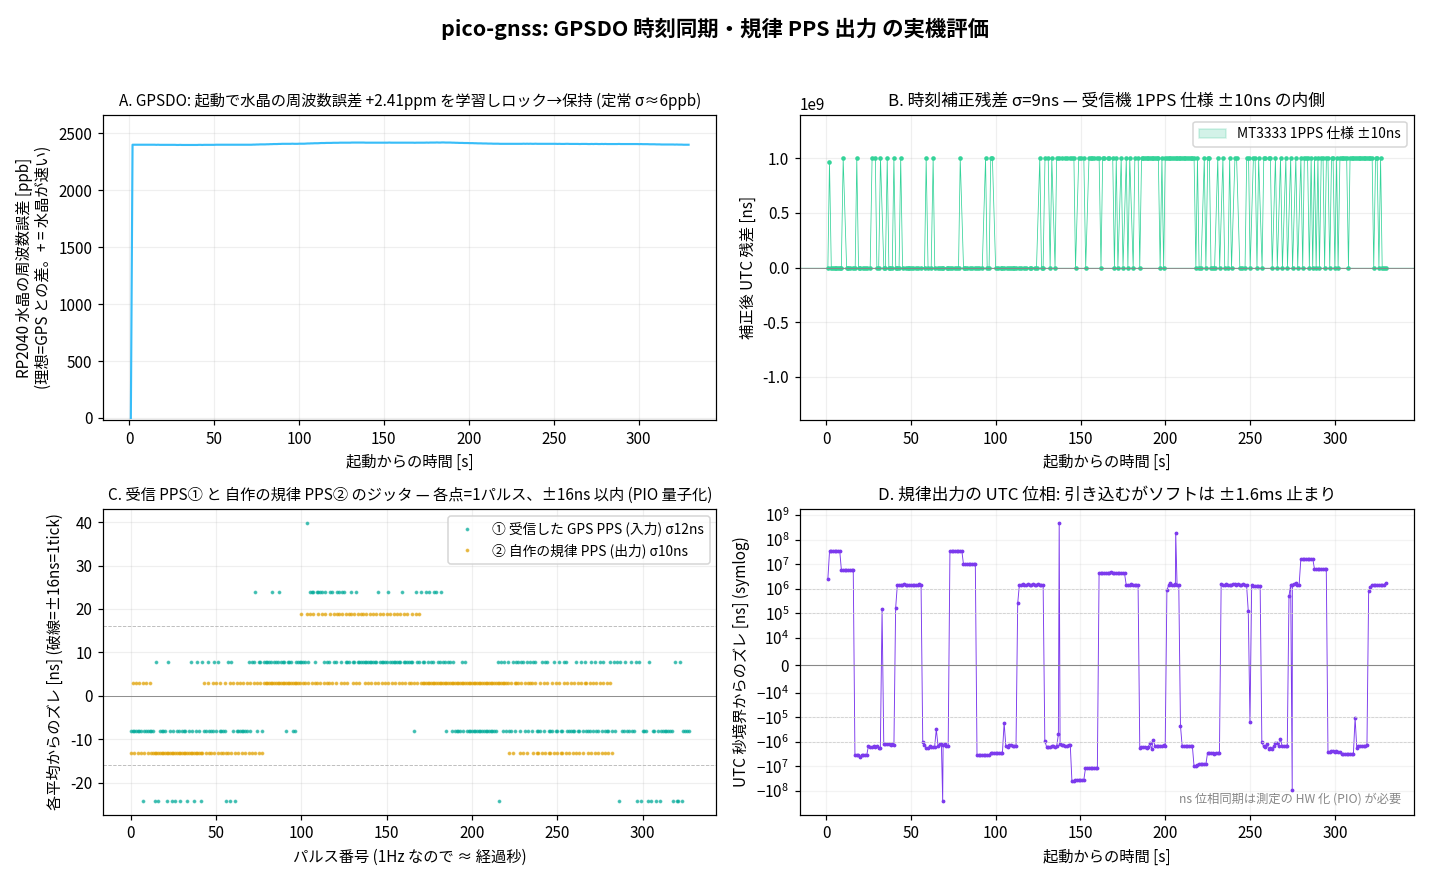
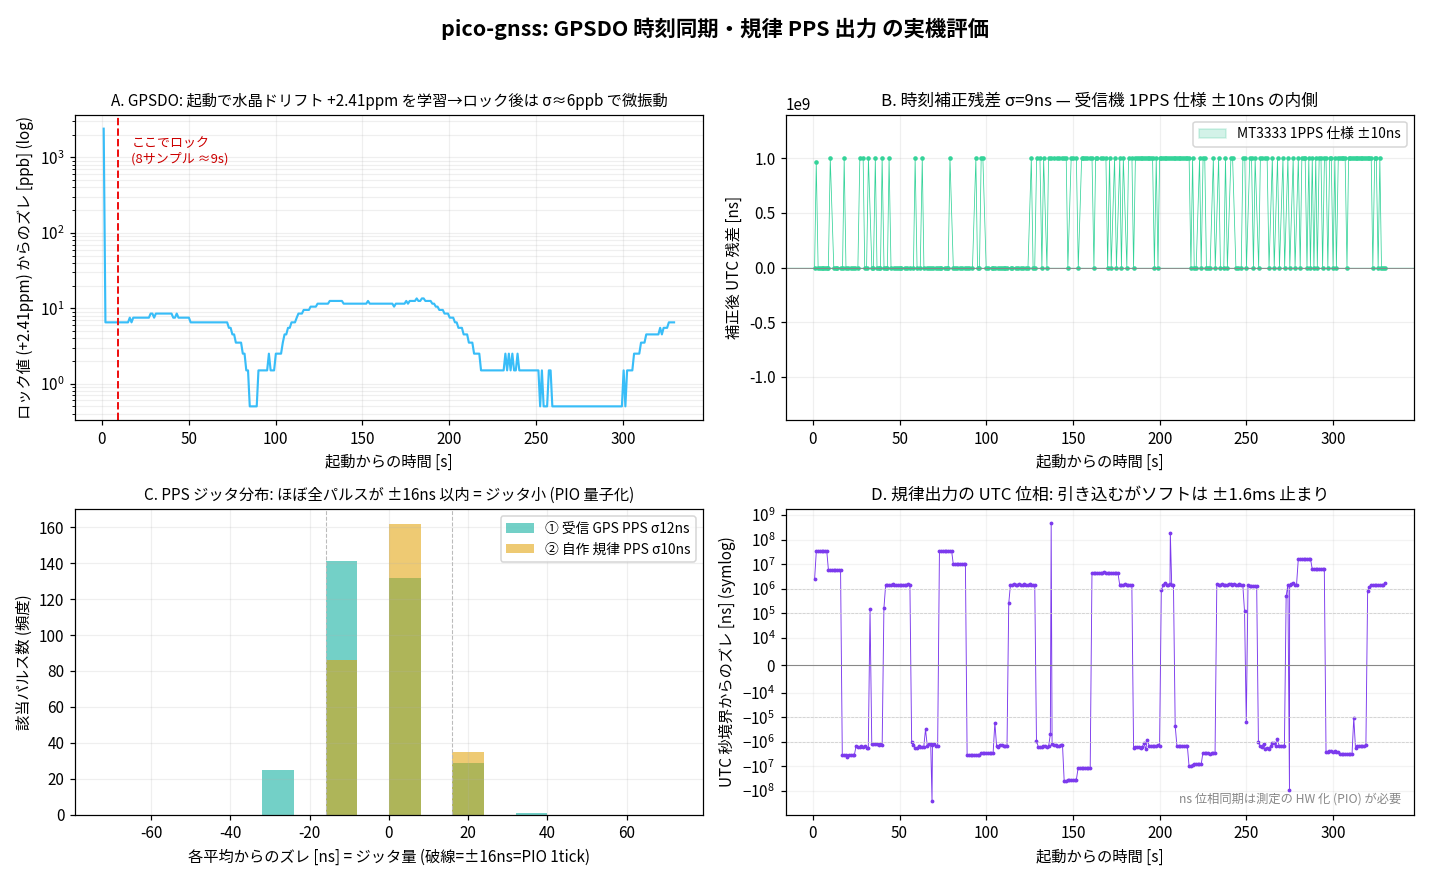
pico-gnss report: A を log+ロック時点(縦線)に・C を jitter 分布ヒストグラムに
- A: log は維持 (収束が見やすい)。「どこでロックしたか」を赤縦線(8サンプル)で明示、y軸を
  「ロック値(+2.4ppm)からのズレ」と明記。ロック後の微振動は実周波数σ+log の0交差スパイク。
- C: jitter は「ズレ量[ns]の分布」が本質なので、横=ズレ量(ジッタ)・縦=該当パルス数 の
  ヒストグラムに。±16ns 破線。横=パルス番号(無意味)だった散布図から戻した。

diff --git a/webapp/plot_report.py b/webapp/plot_report.py
@@ -40,14 +40,14 @@ def tof(ln):  # 行頭の defmt タイムスタンプ = 起動からの秒
 
 
 # (t, value) で集める
-pps_dev, ppb_t, ppb, err_t, errs, gen_dev, ph_t, phase = [], [], [], [], [], [], [], []
+pps_dev, ppb_t, ppb, lockf, err_t, errs, gen_dev, ph_t, phase = [], [], [], [], [], [], [], [], []
 for ln in log:
     t = tof(ln)
     if (m := re.search(r"PPS count=\d+ interval_us=\d+ interval_ns=(\d+) state=(\w+) missed=\d+", ln)):
         if m.group(2) == "Locked" and abs(int(m.group(1)) - 1_000_000_000) < 1_000_000:
             pps_dev.append(int(m.group(1)) - 1_000_000_000)
-    elif (m := re.search(r"TIME unix_ns=\d+ ppb=(-?\d+)", ln)):
-        ppb_t.append(t); ppb.append(int(m.group(1)))
+    elif (m := re.search(r"TIME unix_ns=\d+ ppb=(-?\d+) holdover_ms=\d+ locked=([01])", ln)):
+        ppb_t.append(t); ppb.append(int(m.group(1))); lockf.append(m.group(2) == "1")
     elif (m := re.search(r"SYNC .*err_ns=(-?\d+)", ln)):
         err_t.append(t); errs.append(snap(int(m.group(1))))
     elif (m := re.search(r"PPSGEN count=\d+ interval_ns=\d+ dev_ns=(-?\d+) phase_ns=(-?\d+)", ln)):
@@ -56,18 +56,21 @@ for ln in log:
 fig, ax = plt.subplots(2, 2, figsize=(13, 8))
 fig.suptitle("pico-gnss: GPSDO 時刻同期・規律 PPS 出力 の実機評価", fontsize=14, fontweight="bold")
 
-# A: 推定周波数そのものを時間軸で (ランプ→平ら = ロックして保持。log の |距離| は 0 交差で
-#    下スパイクする artifact が出るので直接 freq を線形で)
+# A: ロック値からのズレ を log-y で (収束が見やすい)。ロック時点を縦線で明示。
 a = ax[0][0]
 if len(ppb) > 5:
     p = np.array(ppb, float); tp = np.array(ppb_t, float)
     lock = np.median(p[len(p) * 2 // 3:]); ss = np.std(p[len(p) // 3:])
-    a.plot(tp, p, color="#38bdf8", lw=1.4)
-    a.set_ylim(min(0, p.min()) - 20, max(p) * 1.1 + 1)
-    a.set_title(f"A. GPSDO: 起動で水晶の周波数誤差 +{lock/1000:.2f}ppm を学習しロック→保持 (定常 σ≈{ss:.0f}ppb)", fontsize=10)
+    a.semilogy(tp, np.maximum(np.abs(p - lock), 0.3), color="#38bdf8", lw=1.4)
+    lt = next((ppb_t[i] for i in range(len(lockf)) if lockf[i]), None)  # 最初に locked=1 になった時刻
+    if lt is not None:
+        a.axvline(lt, color="#e11", lw=1.3, ls="--")
+        a.annotate(f"ここでロック\n(8サンプル ≈{lt:.0f}s)", xy=(lt, max(p) * 0.5 + 1),
+                   xytext=(lt + 8, max(p) * 0.5 + 1), fontsize=8.5, color="#c00", va="center")
+    a.set_title(f"A. GPSDO: 起動で水晶ドリフト +{lock/1000:.2f}ppm を学習→ロック後は σ≈{ss:.0f}ppb で微振動", fontsize=10)
     a.set_xlabel("起動からの時間 [s]")
-    a.set_ylabel("RP2040 水晶の周波数誤差 [ppb]\n(理想=GPS との差。+ = 水晶が速い)")
-    a.grid(True, alpha=0.2)
+    a.set_ylabel("ロック値 (+%.2fppm) からのズレ [ppb] (log)" % (lock / 1000))
+    a.grid(True, which="both", alpha=0.2)
 
 # B: 時刻同期 ns 級 (±10ns spec 帯)
 a = ax[0][1]
@@ -83,19 +86,20 @@ if len(errs) > 3:
     a.set_xlabel("起動からの時間 [s]"); a.set_ylabel("補正後 UTC 残差 [ns]")
     a.legend(fontsize=9); a.grid(True, alpha=0.2)
 
-# C: PPS / 規律出力 ジッタ — 各パルスのズレを散布図で (各平均から ±16ns 以内を直接見せる)
+# C: PPS ジッタ分布 (ヒストグラム)。横=ズレ量[ns]=ジッタそのもの、縦=該当パルス数。
 a = ax[1][0]
 hp = np.array(pps_dev, float); hp = hp - hp.mean() if len(hp) else hp
 ho = np.array([x for x in gen_dev if 1000 < abs(x) < 50000], float); ho = ho - ho.mean() if len(ho) else ho
-if len(hp) > 2:
-    a.plot(hp, ".", color="#0a9", ms=3, alpha=0.6, label=f"① 受信した GPS PPS (入力) σ{hp.std():.0f}ns")
-if len(ho) > 2:
-    a.plot(ho, ".", color="#e0a000", ms=3, alpha=0.6, label=f"② 自作の規律 PPS (出力) σ{ho.std():.0f}ns")
-a.axhline(0, color="#888", lw=0.6)
+bins = np.arange(-72, 73, 8)
+if len(hp) > 4:
+    a.hist(hp, bins=bins, color="#0a9", alpha=0.55, label=f"① 受信 GPS PPS σ{hp.std():.0f}ns")
+if len(ho) > 4:
+    a.hist(ho, bins=bins, color="#e0a000", alpha=0.55, label=f"② 自作 規律 PPS σ{ho.std():.0f}ns")
 for v in (16, -16):
-    a.axhline(v, color="#bbb", lw=0.6, ls="--")
-a.set_title("C. 受信 PPS① と 自作の規律 PPS② のジッタ — 各点=1パルス、±16ns 以内 (PIO 量子化)", fontsize=10)
-a.set_xlabel("パルス番号 (1Hz なので ≈ 経過秒)"); a.set_ylabel("各平均からのズレ [ns] (破線=±16ns=1tick)")
+    a.axvline(v, color="#bbb", lw=0.7, ls="--")
+a.set_title("C. PPS ジッタ分布: ほぼ全パルスが ±16ns 以内 = ジッタ小 (PIO 量子化)", fontsize=10)
+a.set_xlabel("各平均からのズレ [ns] = ジッタ量 (破線=±16ns=PIO 1tick)")
+a.set_ylabel("該当パルス数 (頻度)")
 a.legend(fontsize=9); a.grid(True, alpha=0.2)
 
 # D: 位相同期の収束 (symlog: ms〜µs を 1 枚に)

diff --git a/report/REPORT.md b/report/REPORT.md
@@ -24,14 +24,14 @@ host テスト 35 green。
 
 横軸はすべて**起動からの実時間 [s]**、各パネルのタイトルがそのまま結論。
 
-- **A. GPSDO ロック**: 推定した **RP2040 水晶の周波数誤差** (理想=GPS との差, ppb。+=水晶が速い) を時間軸で
-  直接。起動で **+2.4ppm を学習しロック→平ら=保持**。定常 σ~数 ppb。(log の |距離| は 0 交差で下スパイク
-  する artifact が出るので線形を採用。)
+- **A. GPSDO ロック (log)**: `|freq − ロック値|` を log-y で。起動時 ~2400ppb のズレが減衰=水晶ドリフトを
+  学習。**赤縦線がロック時点 (8サンプル)**。ロック後の微振動は σ~数 ppb の実周波数揺れ + log の 0 交差
+  スパイク (高精度ゆえの見た目)。水晶誤差そのものは +2.4ppm。
 - **B. 時刻同期 ns 級**: GPSDO 補正後の UTC 予測残差。**MT3333 1PPS 仕様 ±10ns の帯 (緑) の内側**に
   収まる = ns 級の時刻同期。
-- **C. 受信 PPS① と 自作規律 PPS② のジッタ**: ①GPS から受信した PPS入力、②自分で生成した規律PPS出力、
-  の各パルスの「平均からのズレ」を散布図で (各点=1パルス)。**両方とも ±16ns (PIO 量子化) 以内** =
-  受信と同じ綺麗さで生成できている (①は MT3333 仕様 ±10ns 相当)。
+- **C. PPS ジッタ分布**: 横=各平均からのズレ[ns]=**ジッタ量そのもの**、縦=該当パルス数 (頻度)。
+  ①受信した GPS PPS、②自作の規律 PPS。**山が ±16ns (PIO 量子化) 以内に集中=ジッタが小さい**、
+  かつ ① ② が重なる=受信と同じ綺麗さで生成できている (①は MT3333 仕様 ±10ns 相当)。
 - **D. 位相同期の収束 (symlog)**: 規律出力エッジの UTC 秒境界からのズレ。起動から引き込むが、位相の
   「測定」が CPU の Instant 読み (executor ウェイクアップ遅延) 律速で **ソフトでは ±~1.4ms 止まり**。
   ns 位相同期は測定の HW 化 (PIO で出力エッジを GPS PPS と同じカウンタで捕捉, stage ②) が必要。
